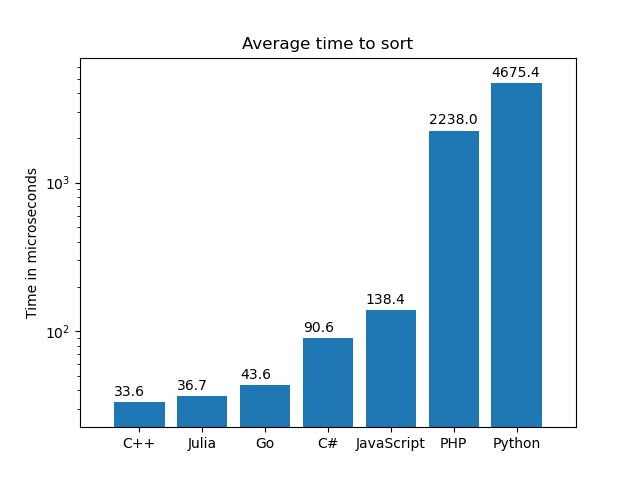
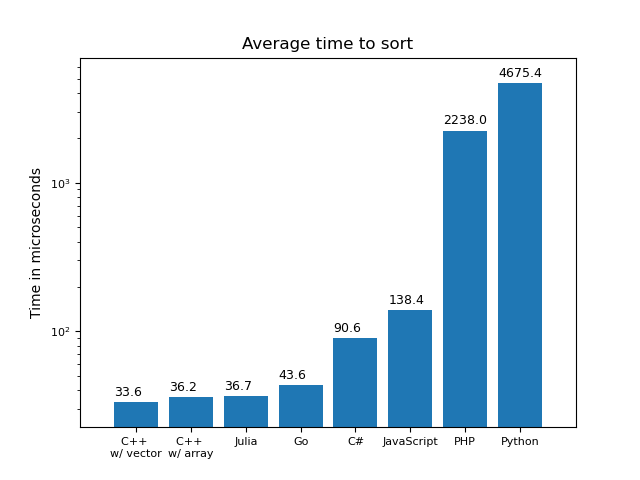
Added C++ implementation using arrays

diff --git a/quicksort2.cpp b/quicksort2.cpp
@@ -1,0 +1,69 @@
+#include <iostream>
+#include <vector>
+#include <time.h>
+using namespace std;
+
+/*
+    QuickSort for int arrays only
+    (the other version uses vectors with templates)
+*/
+
+unsigned int partition(int* arr, unsigned int bottom, unsigned int top) {
+    int m = arr[(bottom + top) / 2];
+    int l = bottom-1, r = top+1;
+
+    while (true) {
+        do {
+            l++;
+        } while (arr[l] < m && l <= top);
+
+        do {
+            r--;
+        } while (arr[r] > m && r >= bottom);
+
+        if (l >= r) return r;
+
+        std::swap(arr[l], arr[r]);
+    }
+}
+
+
+void qs(int* arr, unsigned int bottom, unsigned int top) {
+    unsigned int j;
+
+    if (bottom < top) {
+        j = partition(arr, bottom, top);
+        qs(arr, bottom, j);
+        qs(arr, j+1, top);
+    }
+}
+
+
+void QuickSort(int* arr, unsigned int length) {
+    qs(arr, 0, length-1);
+}
+
+
+
+int main() {
+    int n = 10000;
+    vector<double> timings;
+
+    for (int i = 0; i < n; i++) {
+        int arr[] = {32,81,-76,-72,-55,-75,-91,-6,70,-49,-34,20,-84,65,-19,-74,-15,29,-96,58,0,0,12,37,41,23,-12,33,3,90,71,97,93,-22,-38,84,-55,40,-52,-77,8,-1,69,99,-97,-97,51,83,73,-60,-53,-92,-98,97,-24,58,70,69,-28,-40,16,-44,99,-63,15,75,-21,-19,-36,-1,89,-97,-78,-15,-29,-37,74,-7,38,-20,42,95,10,22,-40,-56,-75,75,-82,-68,70,-72,43,-81,34,-82,16,14,59,98,-40,55,19,49,12,-22,-91,-46,-1,-28,-47,-18,-68,-82,87,-18,-32,93,-44,54,19,10,47,-88,46,-54,68,24,-61,96,-75,54,-5,-45,88,-62,50,89,-59,-81,41,-79,-57,83,-89,-15,23,67,-16,66,-44,-28,70,91,-60,-27,56,98,-49,78,84,31,-61,63,45,-46,-22,-87,58,-74,-18,-50,-78,-17,-56,55,-39,-58,55,49,43,38,32,-48,97,-52,-21,-99,66,-11,-24,8,65,-91,-32,-4,-70,66,94,85,-71,0,-5,-36,-80,-57,-8,79,-42,-74,-66,88,-87,9,-72,-18,83,68,64,-39,3,-69,85,41,50,89,-45,-43,27,-50,-82,-8,-23,63,-24,49,97,86,28,98,-37,50,74,56,52,-81,60,35,-39,-20,56,-83,23,48,-99,-95,38,36,-45,-95,75,-68,90,-49,-82,98,-83,44,48,-11,-5,10,-78,99,-8,71,14,28,41,80,86,-81,64,81,-32,49,98,-40,-79,-53,-43,-44,-67,-35,-85,-1,-9,-67,15,-88,-14,-38,-96,52,-61,48,-20,13,-79,54,97,-10,-96,-7,20,99,-55,-76,56,98,12,-31,91,-85,68,-16,-67,48,94,17,-17,83,51,54,-88,81,-32,-37,4,-81,-98,-46,47,96,-43,-69,70,86,19,29,-56,33,-77,-64,72,6,-74,26,65,70,55,94,-87,-30,-69,5,98,-96,34,73,36,-7,-56,31,8,-15,-40,-14,-95,-66,95,32,-80,49,85,83,36,24,12,27,24,-34,40,84,91,-94,-20,-63,-5,87,-66,-6,56,32,37,-10,-83,-5,99,54,-11,32,88,-43,67,-22,-47,-52,61,-70,24,6,63,14,-37,-34,35,89,64,48,92,60,89,-84,21,-17,22,-77,76,22,77,58,-14,-50,-35,90,97,-85,32,30,64,-49,39,-28,96,18,52,-72,93,48,-8,23,-49,96,-31,-44,16,6,10,33,81,37,22,60,66,-74,15,-65,84,47,-17,76,-61,-9,-91,71,25,-68,57,-24,-63,-32,15,18,24,-24,29,91,63,-92,-62,15,-21,94,47,-13,46,91,-91,-84,41,87,-75,58,30,-15,28,-19,-90,-24,-79,-60,22,99,-79,12,-78,-85,22,-6,-34,47,25,-53,27,-79,-78,-46,74,-88,92,66,-21,-79,-24,-53,35,-54,-1,-44,31,-58,53,-34,72,-52,7,44,-6,-78,-71,-55,-79,23,84,4,-24,-19,21,-58,66,29,-6,98,-25,-21,76,-32,26,-8,-22,-93,75,-22,-87,55,-25,-46,-35,-11,57,32,-76,13,-37,70,-70,90,10,-13,-75,-52,-35,-95,-41,-97,21,-78,-65,99,21,-7,9,-75,-34,61,-89,-38,-35,-85,82,28,-82,-15,87,-39,-4,-44,51,-82,-42,25,-1,-68,3,-5,-61,-36,5,-64,38,-47,-8,75,2,4,10,-46,-7,-2,-33,98,-62,-89,37,0,47,-81,-39,91,-58,37,-92,-69,-81,-1,-96,72,-80,67,51,-45,-47,14,52,94,-31,50,-57,-82,5,-52,50,-4,-59,55,-94,78,83,-55,98,53,-41,-6,-92,-83,34,-20,45,-90,14,30,-33,33,-90,-90,64,99,-4,-90,-26,-99,-98,-47,17,93,-94,-1,6,56,-90,76,-88,29,10,49,34,43,80,-37,60,48,-86,42,-40,-33,-18,-14,3,52,96,-4,19,81,-82,41,-83,57,62,-28,23,64,-94,18,57,-30,-57,50,44,-77,-74,-3,-86,-81,-18,16,95,-39,-58,4,28,63,-21,63,60,-81,-96,-80,6,88,-3,62,-4,-37,-21,56,-73,-79,64,-34,74,-9,-66,30,97,-16,90,-96,-98,-38,-67,35,-28,16,23,-40,-46,62,-66,-66,-71,-52,52,-25,69,85,-52,-53,75,9,-80,0,-34,-53,71,52,-67,75,44,66,-24,79,57,11,64,-87,-20,-19,96,48,-55,-36,-28,-11,-53,60,60,9,-24,76,-53,-49,-60,68,95,69,-62,53,2,-91,-57,97,-61,31,1,80,-60,49,60,-8,-88,-79,-52,-70,-31,51,-95,-59,-78,-60,-39,-26,-61,52,0,72,47,-62,23,84,54,-32,-28,9,37,19,-77,62,12,28,-39,-38,99,-44,-45,58,15,8,9,65,94,-55,41,-68,20,64,-29,-7,7,-24,40,-31,-88,-78,12,41,-83,-51,-7,-49,63,55,4,-20,82,-82,-92,17,49,41,-95,36,-43,95,-74,10,-55,-14,27,-50,19,59,-96,56,-39,61,-10,23,-21,-64,23,65,60,69,-98,-47,77,-94,-37,-27,-30,-56,-36,99,89,-53,-47,-68,-63,-66,8,81,-56,-39,-34,3,81,-51,80,-87,75,0,13,-46,3,81,-94,62,-57,-88};
+        int length = sizeof(arr)/sizeof(*arr);
+        clock_t start = clock();
+        QuickSort(arr, length);
+        double duration = (double)(clock() - start) / CLOCKS_PER_SEC;
+        timings.push_back(duration);
+    }
+
+    double sum = 0;
+    for (auto x : timings) {
+        sum += x;
+    }
+    double avg = sum / n;
+
+    cout << "Average time:   " << avg << "s" << endl;
+    return 0;
+}

diff --git a/quicksort.cpp b/quicksort.cpp
@@ -6,7 +6,7 @@ using namespace std;
 
 
 template <class T>
-uint partition(vector<T> &arr, unsigned int bottom, unsigned int top) {
+unsigned int partition(vector<T> &arr, unsigned int bottom, unsigned int top) {
     T m = arr[(bottom + top) / 2];
     int l = bottom-1, r = top+1;
 
@@ -28,7 +28,7 @@ uint partition(vector<T> &arr, unsigned int bottom, unsigned int top) {
 
 template <class T>
 void qs(vector<T> &arr, unsigned int bottom, unsigned int top) {
-    uint j;
+    unsigned int j;
 
     if (bottom < top) {
         j = partition(arr, bottom, top);

diff --git a/analyzer.py b/analyzer.py
@@ -9,7 +9,8 @@ Features:
 
 
 data = {
-	"C++": 33.6,
+	"C++ \nw/ vector": 33.6,
+	"C++ \nw/ array": 36.2,
 	"Julia": 36.7,
 	"Go": 43.6,
 	"C#": 90.6,
@@ -29,7 +30,8 @@ if __name__ == "__main__":
 	# Values above bars
 	names, values = zip(*data.items())
 	for i in range(len(names)):
-		plt.text(i-0.4, values[i]*1.1, str(values[i]))
+		plt.text(i-0.4, values[i]*1.1, str(values[i]), fontdict={"size": 9})
 
+	plt.tick_params(axis="both", labelsize="8")
 	plt.margins(0.08)
 	plt.show()

diff --git a/README.md b/README.md
@@ -42,13 +42,14 @@ for 1000 times:
 ##### Testing results:
  | Language   | seconds   | microseconds |
  | :---   | :---: | :---: |
- | C++        | 0.0000336 | 33.6         |
- | Julia	  | 0.0000367 | 36.7		 |
- | Go         | 0.0000436 | 43.6 		 |
- | C#         | 0.0000906 | 90.6         |
- | JavaScript | 0.0001384 | 138.4        |
- | PHP		  | 0.0022380 | 2238.0		 |
- | Python     | 0.0046754 | 4675.4       |
+ | C++ w/ vector  | 0.0000336 | 33.6         |
+ | C++ w/ array   | 0.0000362 | 36.2         |
+ | Julia	      | 0.0000367 | 36.7		 |
+ | Go             | 0.0000436 | 43.6 		 |
+ | C#             | 0.0000906 | 90.6         |
+ | JavaScript     | 0.0001384 | 138.4        |
+ | PHP		      | 0.0022380 | 2238.0		 |
+ | Python         | 0.0046754 | 4675.4       |
 
  ###### Matplotlib graph of time results
  ![Graph showing timing results for all languages](https://raw.githubusercontent.com/VidKreca/QuickSorts/master/graph.png)
